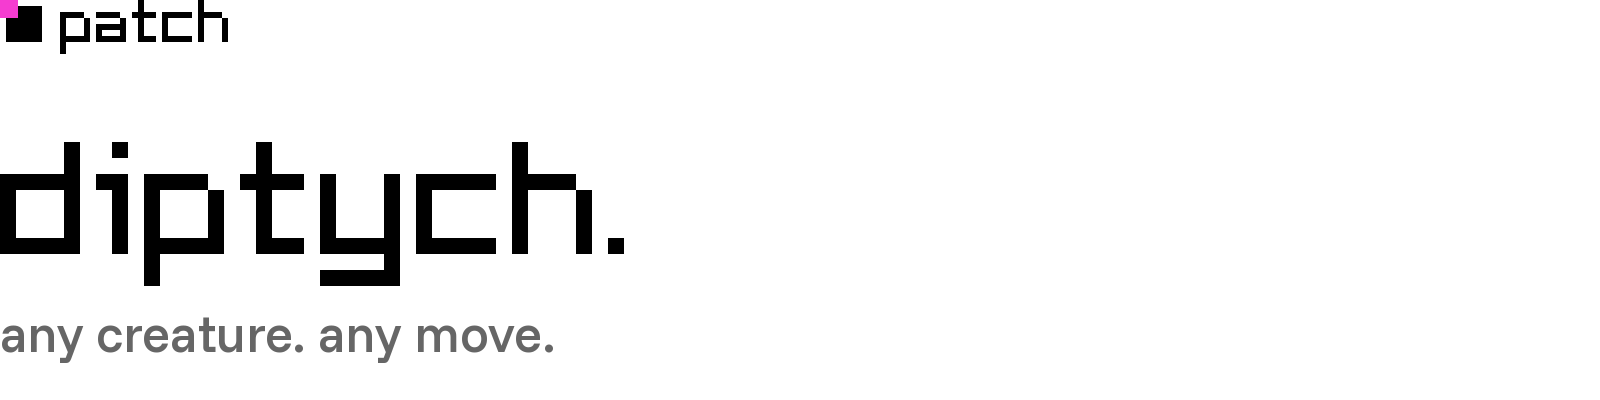
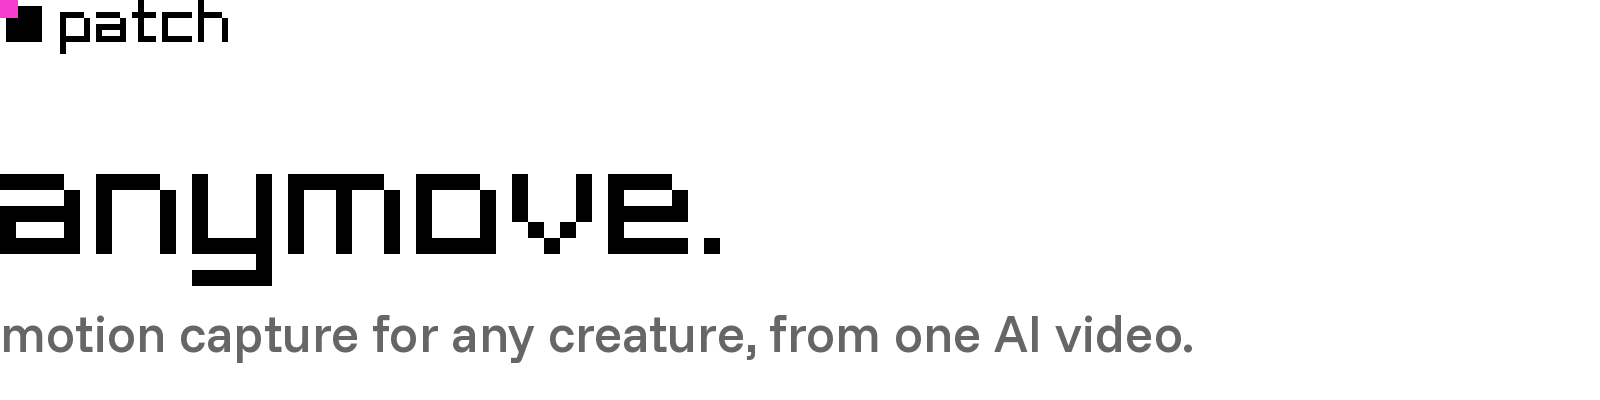
Rename to anymove
The name echoes the video's last line, "any creature. any move." Skills, plugin,
marketplace, download URLs (ANYMOVE_RELEASE_URL), README banner and GIF follow.
GitHub redirects the old diptych URLs, release downloads included.

Changed region(s): [[0.0, 0.78, 0.75, 0.9], [0.0, 0.36, 0.25, 0.72], [0.2812, 0.36, 0.4688, 0.66]]

diff --git a/docs/readme/make_art.py b/docs/readme/make_art.py
@@ -58,8 +58,8 @@ def header(style):
     img = Image.new('RGBA', (1600, 400), (0, 0, 0, 0))
     d = ImageDraw.Draw(img)
     draw_rects(d, logo('patch-lockup-white', ink, quiet), 0, 0, 6)                 # 3 px cells on screen
-    d.text((0, 254), 'diptych.', font=pixel(144), fill=ink, anchor='ls')            # 8 px cells: the headline size
-    d.text((0, 352), 'any creature. any move.', font=funnel(52), fill=quiet, anchor='ls')
+    d.text((0, 254), 'anymove.', font=pixel(144), fill=ink, anchor='ls')            # 8 px cells: the headline size
+    d.text((0, 352), 'motion capture for any creature, from one AI video.', font=funnel(52), fill=quiet, anchor='ls')
     img.save(os.path.join(HERE, f'header-{style}.png'), optimize=True)
 
 

diff --git a/mocap/lora.py b/mocap/lora.py
@@ -52,7 +52,7 @@ def resume(run_dir):
     print("done", json.dumps(res)[:600], info, flush=True)
 
 
-RELEASE_LORA = "https://github.com/Patch-gg/diptych/releases/download/examples-v1/lora-wolf-twocam-h3.safetensors"
+RELEASE_LORA = "https://github.com/Patch-gg/anymove/releases/download/examples-v1/lora-wolf-twocam-h3.safetensors"
 
 
 def lora_path(src):

diff --git a/skills/anymove/SKILL.md b/skills/anymove/SKILL.md
@@ -1,11 +1,11 @@
 ---
-name: diptych
-description: Motion capture for any creature from one AI video, with the diptych repo. A video model films a rigged 3D creature from two cameras in one frame, a DINOv2 joint reader trained on that creature finds every joint in both views, and the rig is fitted to them and exported as a GLB. Use when someone wants to animate a non-human creature (dragon, spider, wolf, monster) from a text prompt or an AI video, asks how diptych works, or needs to know which step comes next; it routes to diptych-rig, diptych-film, diptych-reader, diptych-capture and diptych-lora.
+name: anymove
+description: Motion capture for any creature from one AI video, with the anymove repo. A video model films a rigged 3D creature from two cameras in one frame, a DINOv2 joint reader trained on that creature finds every joint in both views, and the rig is fitted to them and exported as a GLB. Use when someone wants to animate a non-human creature (dragon, spider, wolf, monster) from a text prompt or an AI video, asks how anymove works, or needs to know which step comes next; it routes to anymove-rig, anymove-film, anymove-reader, anymove-capture and anymove-lora.
 license: Apache-2.0
 compatibility: Needs an NVIDIA GPU with CUDA (24 GB to train a reader at batch 20), Blender 5.x, Python 3.11, and a fal.ai key for video generation.
 ---
 
-# diptych
+# anymove
 
 Animate any rigged creature from one AI video. The trick is the frame: one image holds two orthographic views of the
 creature at the same scale, front on the left and side on the right, sharing the vertical axis. A joint sits on the
@@ -16,20 +16,20 @@ height, and together they pin the joint in 3D. The method is @CanItCode's; the L
 
 | step | once per | what happens | skill |
 |---|---|---|---|
-| 1. mesh | creature | a textured 3D model (Tripo H3.1 from one image, or your own GLB), facing -Y, real size | diptych-rig |
-| 2. skeleton | creature | joints placed in `assets/<c>/rig.json`, rig built and skinned in Blender | diptych-rig |
-| 3. limb colours | creature | each limb painted its own colour so left and right never swap | diptych-rig |
-| 4. two cameras | move | the painted reference frame plus a strict prompt go to MiniMax H3 Max on fal | diptych-film |
-| 5. teach a reader | creature | 2,200 random poses rendered with known joints; DINOv2 learns this creature | diptych-reader |
-| 6. read every joint | clip | the reader finds every joint in both views, every frame | diptych-capture |
-| 7. two views, 3D | clip | shared heights tie the views; the pair gives each joint in 3D | diptych-capture |
-| 8. the rig follows | clip | forward kinematics in torch fitted to both views; GLB out | diptych-capture |
-| optional | creature | a MiniMax H3 LoRA that keeps the two-camera layout and colours more reliably | diptych-lora |
+| 1. mesh | creature | a textured 3D model (Tripo H3.1 from one image, or your own GLB), facing -Y, real size | anymove-rig |
+| 2. skeleton | creature | joints placed in `assets/<c>/rig.json`, rig built and skinned in Blender | anymove-rig |
+| 3. limb colours | creature | each limb painted its own colour so left and right never swap | anymove-rig |
+| 4. two cameras | move | the painted reference frame plus a strict prompt go to MiniMax H3 Max on fal | anymove-film |
+| 5. teach a reader | creature | 2,200 random poses rendered with known joints; DINOv2 learns this creature | anymove-reader |
+| 6. read every joint | clip | the reader finds every joint in both views, every frame | anymove-capture |
+| 7. two views, 3D | clip | shared heights tie the views; the pair gives each joint in 3D | anymove-capture |
+| 8. the rig follows | clip | forward kinematics in torch fitted to both views; GLB out | anymove-capture |
+| optional | creature | a MiniMax H3 LoRA that keeps the two-camera layout and colours more reliably | anymove-lora |
 
 ## Before anything
 
-1. Work in a diptych checkout. If the working directory has no `tools/capture.sh`, clone it:
-   `git clone https://github.com/Patch-gg/diptych && cd diptych`.
+1. Work in an anymove checkout. If the working directory has no `tools/capture.sh`, clone it:
+   `git clone https://github.com/Patch-gg/anymove && cd anymove`.
 2. Set up once: `python3.11 -m venv .venv`, then
    `.venv/bin/pip install torch==2.11.0 --index-url https://download.pytorch.org/whl/cu128` and
    `.venv/bin/pip install -r requirements.txt`. Blender 5.x must be on PATH, or set `BLENDER=/path/to/blender`.
@@ -41,13 +41,13 @@ height, and together they pin the joint in 3D. The method is @CanItCode's; the L
 ## Which step next
 
 - No `assets/<c>/model.glb`: make or fetch the mesh. Examples: `tools/fetch_examples.sh <c>` (wolf, dragon, spider,
-  demon). New creature: diptych-rig.
+  demon). New creature: anymove-rig.
 - No `assets/<c>/rigged/rigged.blend` or `runs/<c>/ref/ref.png`: `tools/prep.sh <c>` then `tools/rig.sh <c>`
-  (diptych-rig).
-- No `runs/<c>/reader.pt`: diptych-reader (about 45 min on one RTX 4090), or `tools/fetch_examples.sh <c> --readers`.
-- No clip for the move: diptych-film (about $0.26 a 5 s clip).
-- A clip: diptych-capture, `tools/capture.sh <c> <video.mp4> <name>`.
-- Clips keep swapping limb colours or the halves drift apart: diptych-lora.
+  (anymove-rig).
+- No `runs/<c>/reader.pt`: anymove-reader (about 45 min on one RTX 4090), or `tools/fetch_examples.sh <c> --readers`.
+- No clip for the move: anymove-film (about $0.26 a 5 s clip).
+- A clip: anymove-capture, `tools/capture.sh <c> <video.mp4> <name>`.
+- Clips keep swapping limb colours or the halves drift apart: anymove-lora.
 
 ## Try it without a GPU
 

diff --git a/README.md b/README.md
@@ -1,16 +1,16 @@
 <picture>
   <source media="(prefers-color-scheme: dark)" srcset="docs/readme/header-evening.png">
-  <img alt="patch. diptych. any creature. any move." src="docs/readme/header-day.png" width="800">
+  <img alt="patch. anymove. motion capture for any creature, from one AI video." src="docs/readme/header-day.png" width="800">
 </picture>
 
 <br><br>
 
-<img alt="A dragon roars; an AI video shows it from the front and the side at once; every joint is found in both views; the two views stand up as walls and pin each joint in 3D; the rig lands on the points; a fire demon, a spider and a wolf move the same way." src="docs/diptych.gif" width="800">
+<img alt="A dragon roars; an AI video shows it from the front and the side at once; every joint is found in both views; the two views stand up as walls and pin each joint in 3D; the rig lands on the points; a fire demon, a spider and a wolf move the same way." src="docs/anymove.gif" width="800">
 
 **@patch_gg** · dragon, giant spider, fire demon, wolf · one AI clip per move, $0.26 each, read and fitted in under
 a minute.
 
-diptych turns one AI video into an animation for any rigged creature, wings, tails and eight legs included. A video
+anymove turns one AI video into an animation for any rigged creature, wings, tails and eight legs included. A video
 model films the creature from two cameras in one frame, front on the left and side on the right. A joint reader
 trained on that one creature finds every joint in both views. A joint sits at the same height in both, so the pair
 pins it in 3D, and the rig is fitted to those joints frame by frame and exported as a GLB.
@@ -41,7 +41,7 @@ You need an NVIDIA GPU with CUDA (24 GB to train a reader; reading and fitting n
 to make new clips.
 
 ```bash
-git clone https://github.com/Patch-gg/diptych && cd diptych
+git clone https://github.com/Patch-gg/anymove && cd anymove
 python3.11 -m venv .venv
 .venv/bin/pip install torch==2.11.0 --index-url https://download.pytorch.org/whl/cu128
 .venv/bin/pip install -r requirements.txt
@@ -58,7 +58,7 @@ MOCAP_CREATURE=assets/dragon .venv/bin/python -m mocap.solve examples/dragon_roa
 ```
 
 The whole capture, from the AI clip to a GLB, with an example creature's mesh, trained reader and clip from the
-[release](https://github.com/Patch-gg/diptych/releases/tag/examples-v1) (13 MB mesh, 355 MB reader, 4 MB clip):
+[release](https://github.com/Patch-gg/anymove/releases/tag/examples-v1) (13 MB mesh, 355 MB reader, 4 MB clip):
 
 ```bash
 tools/fetch_examples.sh dragon --readers --clips
@@ -94,21 +94,21 @@ The skills below walk an agent (or you) through each step, with the checks that 
 
 ## agent skills.
 
-diptych is a [Claude Code](https://code.claude.com) plugin and its own marketplace:
+anymove is a [Claude Code](https://code.claude.com) plugin and its own marketplace:
 
 ```
-/plugin marketplace add Patch-gg/diptych
-/plugin install diptych@diptych
+/plugin marketplace add Patch-gg/anymove
+/plugin install anymove@anymove
 ```
 
 | skill | for |
 |---|---|
-| `diptych` | the method, setup, which step comes next, costs |
-| `diptych-rig` | mesh, facing and scale, placing joints in rig.json, building and painting the rig, framing |
-| `diptych-film` | writing the prompt, generating clips on fal, checking them before capture |
-| `diptych-reader` | rendering the dataset, training the reader, the exam in centimetres |
-| `diptych-capture` | reading, fitting, the quality gates, fixing bad fits, showcase renders |
-| `diptych-lora` | training and testing the MiniMax H3 LoRA on fal |
+| `anymove` | the method, setup, which step comes next, costs |
+| `anymove-rig` | mesh, facing and scale, placing joints in rig.json, building and painting the rig, framing |
+| `anymove-film` | writing the prompt, generating clips on fal, checking them before capture |
+| `anymove-reader` | rendering the dataset, training the reader, the exam in centimetres |
+| `anymove-capture` | reading, fitting, the quality gates, fixing bad fits, showcase renders |
+| `anymove-lora` | training and testing the MiniMax H3 LoRA on fal |
 
 They're plain [Agent Skills](https://agentskills.io) (`skills/<name>/SKILL.md`), so other agents can load them from that
 folder too.

diff --git a/skills/anymove-lora/SKILL.md b/skills/anymove-lora/SKILL.md
@@ -1,11 +1,11 @@
 ---
-name: diptych-lora
-description: Train and use a MiniMax H3 image-to-video LoRA on fal that keeps diptych's two-camera layout - split screen held, limb colours kept, both views in step. Builds the dataset by re-rendering clean captured motions (and their mirrors) from both cameras, packs it, runs a cheap debug pass, trains, and A/B tests against plain H3 with the same seeds. Use when plain video models keep swapping limb colours or breaking the split screen for a creature, or when someone asks about @Graalitoo's LoRA step, its cost or its training data.
+name: anymove-lora
+description: Train and use a MiniMax H3 image-to-video LoRA on fal that keeps anymove's two-camera layout - split screen held, limb colours kept, both views in step. Builds the dataset by re-rendering clean captured motions (and their mirrors) from both cameras, packs it, runs a cheap debug pass, trains, and A/B tests against plain H3 with the same seeds. Use when plain video models keep swapping limb colours or breaking the split screen for a creature, or when someone asks about @Graalitoo's LoRA step, its cost or its training data.
 license: Apache-2.0
-compatibility: Needs a fal.ai key (FAL_KEY), Blender 5.x, and a creature with several good captures (diptych-capture). Training runs on fal, not locally.
+compatibility: Needs a fal.ai key (FAL_KEY), Blender 5.x, and a creature with several good captures (anymove-capture). Training runs on fal, not locally.
 ---
 
-# diptych-lora: teach the video model the layout
+# anymove-lora: teach the video model the layout
 
 Graalitoo's addition to the method: a LoRA on MiniMax H3 (open weights) so two-camera clips come out right more
 often. fal hosts both the trainer (`minimax/h3/i2v/trainer`, $0.01 a step) and LoRA inference
@@ -22,7 +22,7 @@ its licence is non-commercial; say which you're using.
 
 ## Steps
 
-1. Capture 15-20 good moves (diptych-film, diptych-capture). Prompts live in `prompts/<c>/<move>.txt` or
+1. Capture 15-20 good moves (anymove-film, anymove-capture). Prompts live in `prompts/<c>/<move>.txt` or
    `prompts/<c>/train/<move>.txt`; the wolf has 14 training and 4 held-out moves already written.
 2. Build the set (Blender renders each clip and its mirror, 5 at a time):
    ```bash
@@ -50,12 +50,12 @@ its licence is non-commercial; say which you're using.
    ```bash
    tools/fetch_examples.sh wolf --clips
    .venv/bin/python -m mocap.lora generate \
-     https://github.com/Patch-gg/diptych/releases/download/examples-v1/lora-wolf-twocam-h3.safetensors \
+     https://github.com/Patch-gg/anymove/releases/download/examples-v1/lora-wolf-twocam-h3.safetensors \
      runs/wolf/ref/ref.png prompts/wolf/heldout/pounce.txt runs/wolf/videos/pounce/lora.mp4 1.0 42
    ```
    `tools/fetch_examples.sh wolf --lora` downloads the file itself (131 MB), to run H3 with it yourself.
 6. A/B test on held-out moves against plain H3 with the same seed, then capture both and compare paw agreement and
-   reprojection error (diptych-capture).
+   reprojection error (anymove-capture).
 
 ## What it did for the wolf (one seed per move: a first read, not a benchmark)
 

diff --git a/skills/anymove-rig/SKILL.md b/skills/anymove-rig/SKILL.md
@@ -1,11 +1,11 @@
 ---
-name: diptych-rig
-description: Set up a new creature for diptych - get a textured mesh, scale and face it, place its skeleton in rig.json with grid views, build and skin the rig in Blender, paint each limb its own colour, choose the two-camera framing, and render the reference frame the video model starts from. Use when adding a creature to diptych, when a rig tears or deforms badly, when the creature is cut off or tiny in the two-camera frame, or when someone asks how to rig a non-humanoid for diptych.
+name: anymove-rig
+description: Set up a new creature for anymove - get a textured mesh, scale and face it, place its skeleton in rig.json with grid views, build and skin the rig in Blender, paint each limb its own colour, choose the two-camera framing, and render the reference frame the video model starts from. Use when adding a creature to anymove, when a rig tears or deforms badly, when the creature is cut off or tiny in the two-camera frame, or when someone asks how to rig a non-humanoid for anymove.
 license: Apache-2.0
 compatibility: Blender 5.x on PATH (or BLENDER=...), Python 3.11 venv from requirements.txt. A fal.ai key only if the mesh is generated with Tripo.
 ---
 
-# diptych-rig: one creature, ready to film
+# anymove-rig: one creature, ready to film
 
 Everything for creature `<c>` lives in `assets/<c>/`: `model.glb` (the mesh), `creature.json` (framing, paint, words
 for the prompt), `rig.json` (the skeleton). Copy a close example to start: `assets/wolf` (quadruped), `assets/dragon`
@@ -13,7 +13,7 @@ for the prompt), `rig.json` (the skeleton). Copy a close example to start: `asse
 
 ## 1. The mesh
 
-- Any textured GLB works. diptych's examples are Tripo H3.1 (`tripo3d/h3.1/image-to-3d` on fal, $0.40 with HD
+- Any textured GLB works. anymove's examples are Tripo H3.1 (`tripo3d/h3.1/image-to-3d` on fal, $0.40 with HD
   texture) from one FLUX 3 concept image: a plain 3/4 view of the creature on a neutral background, whole body in
   frame, limbs apart and clearly separate.
 - Prefer a design where every limb reads separately. Fire, smoke, capes, weapons and long hair hide joints from the
@@ -94,10 +94,10 @@ with wings up needs more headroom than one standing. Re-run `tools/rig.sh <c>` a
 Also in `creature.json`: `name` ("spider"), `noun` ("giant spider"), `describe` ("a black armoured giant spider with
 bone-coloured markings"), `colour_code` ("first left leg pink, first right leg blue; ..."), `count` ("Exactly eight
 legs, two fangs, one body, one round abdomen."), `flank` ("flank" or "side") and `limbs` ("legs" or "limbs").
-`tools/make_prompt.py` builds every prompt from these (diptych-film).
+`tools/make_prompt.py` builds every prompt from these (anymove-film).
 
 Last, `"camera": {"cam": "-5.4,-6.0,1.4", "target": "0,-0.3,1.5", "lens": 32}` is the 3/4 view that
-`tools/capture.sh` renders each move from (diptych-capture says how to frame it). Without it, the wolf's applies.
+`tools/capture.sh` renders each move from (anymove-capture says how to frame it). Without it, the wolf's applies.
 
 ## Failure modes seen
 

diff --git a/skills/anymove-film/SKILL.md b/skills/anymove-film/SKILL.md
@@ -1,11 +1,11 @@
 ---
-name: diptych-film
-description: Make the two-camera AI clip for a diptych creature - write the move's prompt from creature.json, send the reference frame to MiniMax H3 Max (or H3, Seedance, FLUX 3 Max) on fal, and check the clip kept the split screen, the limb colours and both views in step before capture. Use when someone wants a new move for a rigged diptych creature, when clips come back with swapped colours, a moving camera or a broken split screen, or when choosing a video model for two-camera clips.
+name: anymove-film
+description: Make the two-camera AI clip for an anymove creature - write the move's prompt from creature.json, send the reference frame to MiniMax H3 Max (or H3, Seedance, FLUX 3 Max) on fal, and check the clip kept the split screen, the limb colours and both views in step before capture. Use when someone wants a new move for a rigged anymove creature, when clips come back with swapped colours, a moving camera or a broken split screen, or when choosing a video model for two-camera clips.
 license: Apache-2.0
-compatibility: Needs a fal.ai key (FAL_KEY in .env or the environment) and a creature already set up with diptych-rig (runs/<c>/ref/ref.png).
+compatibility: Needs a fal.ai key (FAL_KEY in .env or the environment) and a creature already set up with anymove-rig (runs/<c>/ref/ref.png).
 ---
 
-# diptych-film: one move, two cameras, one clip
+# anymove-film: one move, two cameras, one clip
 
 The video model gets one image, `runs/<c>/ref/ref.png` (front view left, side view right, limbs painted), and a prompt
 that pins everything except the action. Both views come from one generation, which is what keeps them in step.
@@ -45,11 +45,11 @@ Look at a few frames (or the whole clip) and reject it if:
 
 - the split screen breaks: a view zooms, pans or cuts, the divider moves, the creature walks out of a view;
 - a limb's colour changes or swaps sides (plain H3 swapped them on 2 of 5 wolf clips; the reader then labels the
-  wrong legs); the LoRA (diptych-lora) kept them on 5 of 5;
+  wrong legs); the LoRA (anymove-lora) kept them on 5 of 5;
 - the body count changes (an extra leg, a lost wing), or the creature turns to face another way;
 - fire, smoke, dust or a weapon covers joints.
 
-The real gate is numeric and comes in capture: the paw agreement between the views (diptych-capture). What the
+The real gate is numeric and comes in capture: the paw agreement between the views (anymove-capture). What the
 clips taught so far:
 
 - Views disagree in the legs, not in time. Seedance's trot played the front legs in anti-phase between the views

diff --git a/skills/anymove-capture/SKILL.md b/skills/anymove-capture/SKILL.md
@@ -1,11 +1,11 @@
 ---
-name: diptych-capture
-description: Turn a two-camera AI clip into a game-ready animation with diptych - read every joint with the creature's trained reader, check that the two views agree, fit the rig in both views at once, and export a GLB with renders and a side-by-side comparison. Covers the quality gates (paw agreement, reprojection error), what to do when a fit fails, and three-quarter showcase renders. Use when someone has a diptych clip to capture, asks whether a capture is good, wants the GLB or renders of a move, or a fit looks wrong.
+name: anymove-capture
+description: Turn a two-camera AI clip into a game-ready animation with anymove - read every joint with the creature's trained reader, check that the two views agree, fit the rig in both views at once, and export a GLB with renders and a side-by-side comparison. Covers the quality gates (paw agreement, reprojection error), what to do when a fit fails, and three-quarter showcase renders. Use when someone has an anymove clip to capture, asks whether a capture is good, wants the GLB or renders of a move, or a fit looks wrong.
 license: Apache-2.0
-compatibility: NVIDIA GPU for reading (a few GB), CPU or GPU for the fit, Blender 5.x for the GLB and renders, Python 3.11 venv from requirements.txt. Needs runs/<c>/reader.pt (diptych-reader) and runs/<c>/ref/ref.png (diptych-rig).
+compatibility: NVIDIA GPU for reading (a few GB), CPU or GPU for the fit, Blender 5.x for the GLB and renders, Python 3.11 venv from requirements.txt. Needs runs/<c>/reader.pt (anymove-reader) and runs/<c>/ref/ref.png (anymove-rig).
 ---
 
-# diptych-capture: clip in, animation out
+# anymove-capture: clip in, animation out
 
 ```bash
 tools/capture.sh <c> runs/<c>/videos/roar/s1/h3max.mp4 roar
@@ -41,7 +41,7 @@ reprojection error px: {'front': 5.92, 'front_x_only': 2.55, 'side': 7.99}
 ```
 
 - **Paw agreement score:** 0.8 or more, the views tell one story: keep it. 0.5-0.8: look at `showcase.mp4`, often one
-  limb is off. Under 0.5: the video model animated the views differently; reroll the clip (diptych-film). `None` for
+  limb is off. Under 0.5: the video model animated the views differently; reroll the clip (anymove-film). `None` for
   a foot means it barely moved (planted feet in a roar); judge that clip by the reprojection error instead.
 - **Reprojection error** (layout pixels, how far the fitted rig's joints land from the readings): front_x_only of 1-3
   px and side of 2-8 px were typical on good clips. Scale by the creature's size in the frame.

diff --git a/skills/anymove-reader/SKILL.md b/skills/anymove-reader/SKILL.md
@@ -1,11 +1,11 @@
 ---
-name: diptych-reader
-description: Train the joint reader for one diptych creature - render about 2,200 random poses from both layout cameras with every joint's true position, fine-tune DINOv2 (ViT-B/14 with registers) plus a heatmap head on them, check the held-out error, and optionally run the exam (a made-up motion with known joints, read back and scored in centimetres). Use after diptych-rig and before diptych-capture, when a reader misses or swaps joints on real clips, or when planning GPU time for dataset rendering and training.
+name: anymove-reader
+description: Train the joint reader for one anymove creature - render about 2,200 random poses from both layout cameras with every joint's true position, fine-tune DINOv2 (ViT-B/14 with registers) plus a heatmap head on them, check the held-out error, and optionally run the exam (a made-up motion with known joints, read back and scored in centimetres). Use after anymove-rig and before anymove-capture, when a reader misses or swaps joints on real clips, or when planning GPU time for dataset rendering and training.
 license: Apache-2.0
 compatibility: NVIDIA GPU with CUDA (about 12 GB at batch 20, so a 24 GB card), Blender 5.x, Python 3.11 venv from requirements.txt. Downloads facebook/dinov2-with-registers-base on first use.
 ---
 
-# diptych-reader: teach DINOv2 one creature
+# anymove-reader: teach DINOv2 one creature
 
 The reader is trained on the creature itself, so it knows every joint name and every limb colour. Data is free:
 Blender poses the rig at random inside its joint limits and records where each joint lands in both views.
@@ -59,7 +59,7 @@ The wolf scored 0.94 cm mean 3D joint error on a 1.6 m body (median 0.63 cm, paw
 
 ## When the reader struggles on real clips
 
-- Joints jump between limbs: the limb colours in the clip drifted from the paint (diptych-film), or two limbs share
+- Joints jump between limbs: the limb colours in the clip drifted from the paint (anymove-film), or two limbs share
   similar colours. Repaint far-apart colours and retrain.
 - A pose the clip shows never appeared in training (lying on its side, a full curl): widen that bone's limits in
   rig.json, rebuild the rig, render and train again. Random poses don't cover lying-down; captured motions would.
